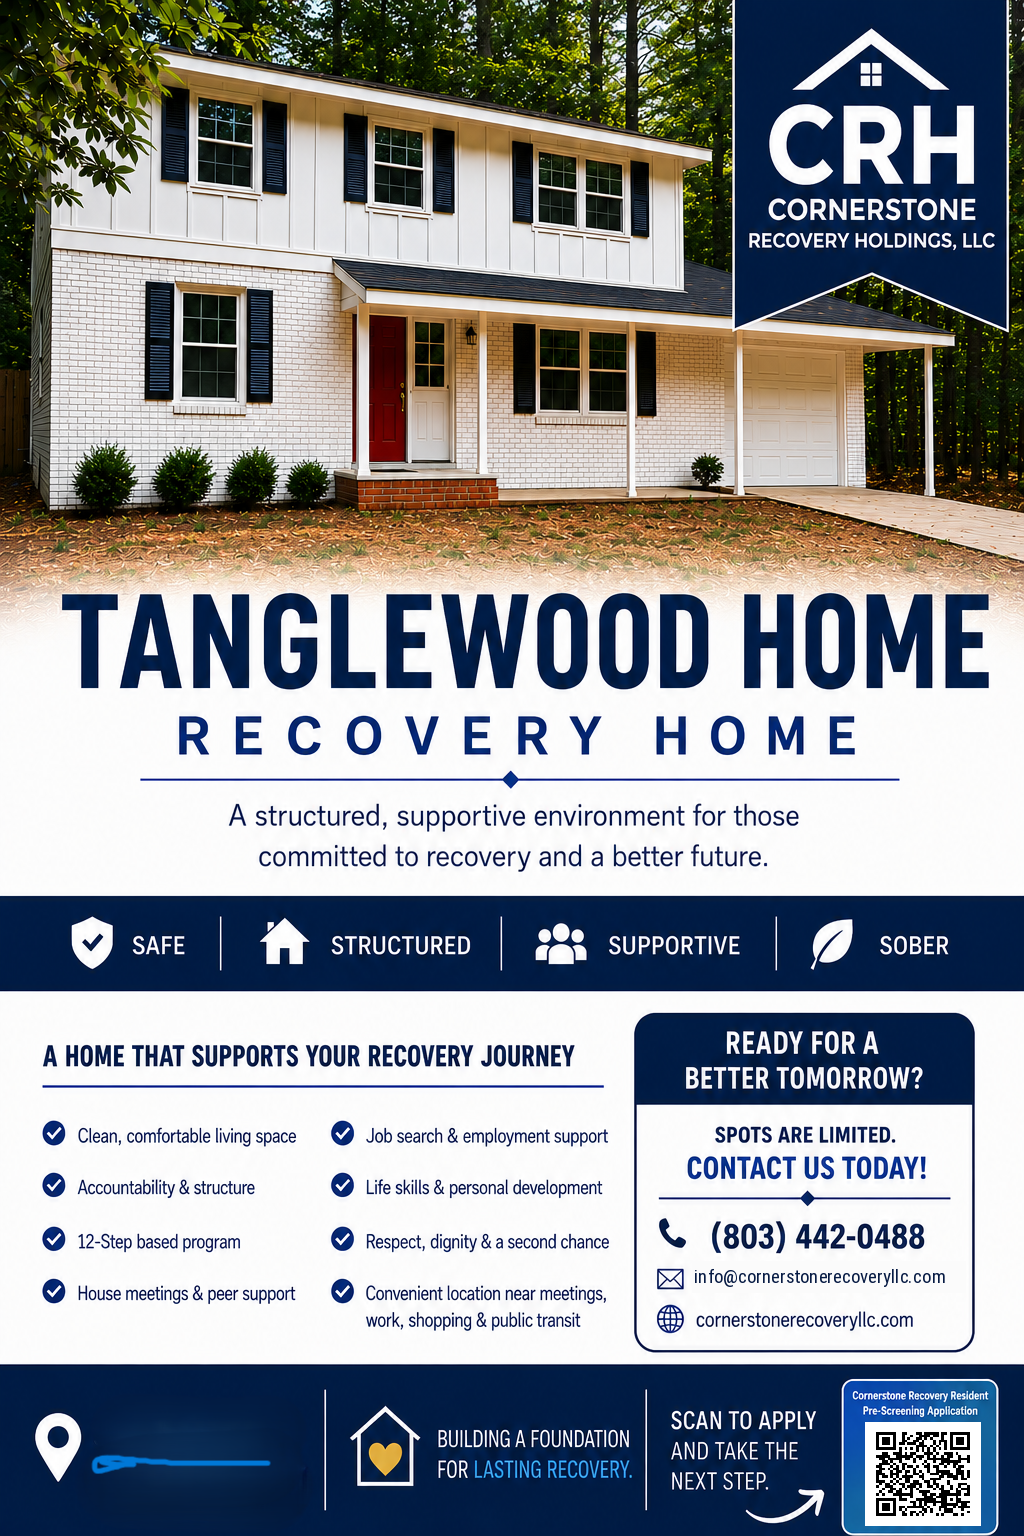
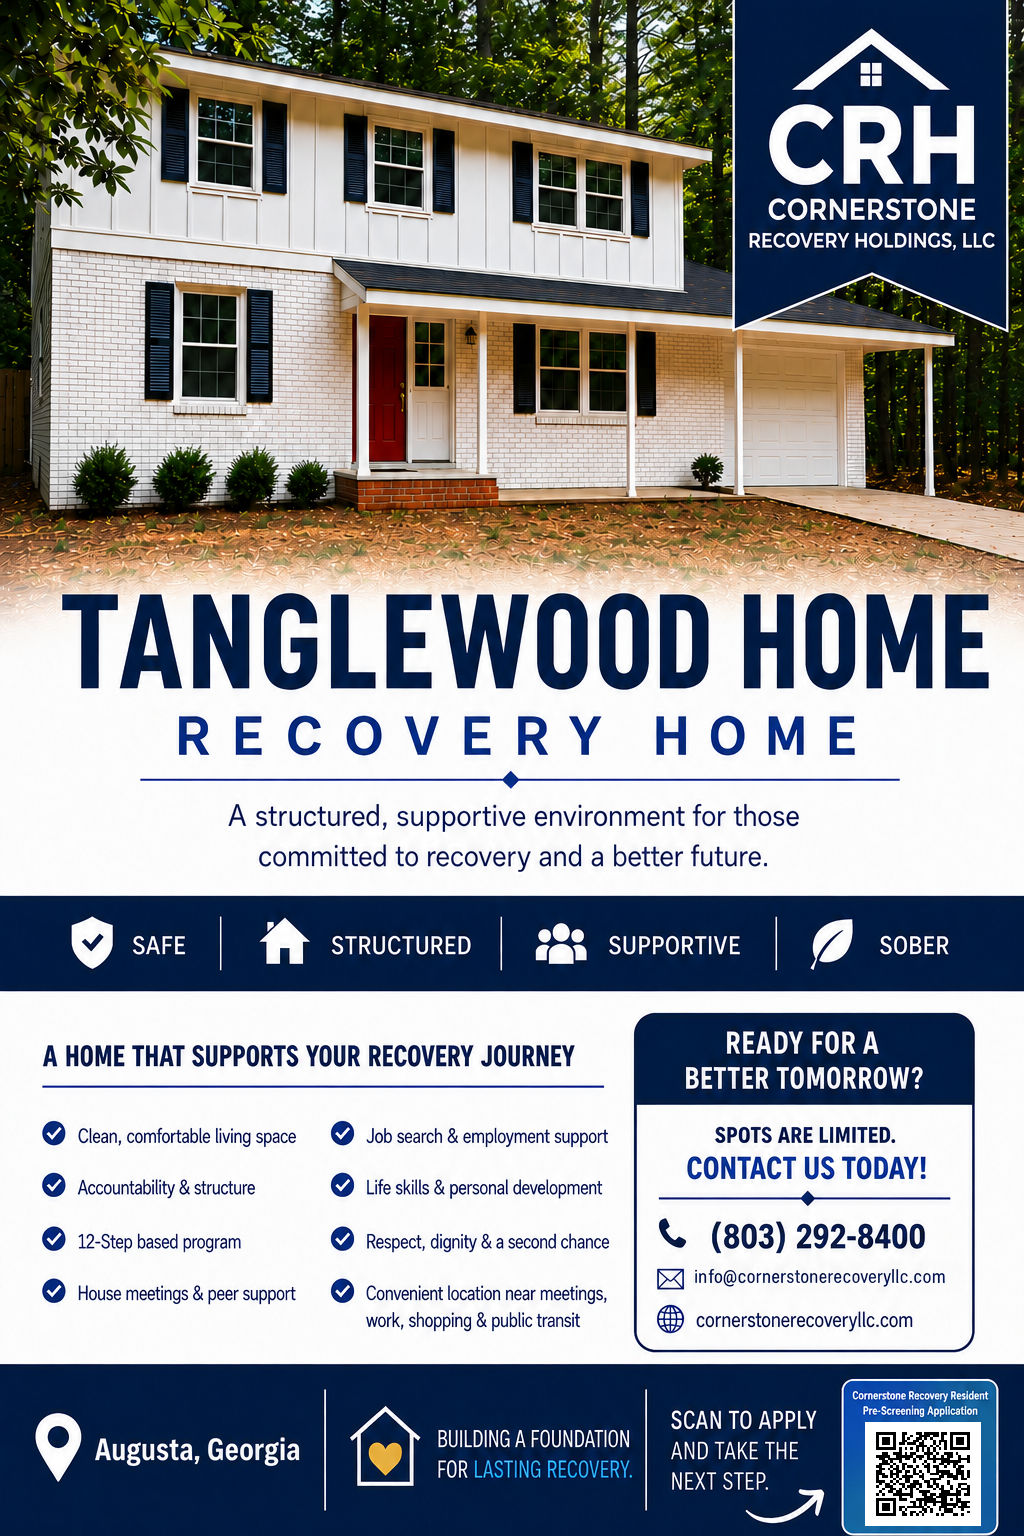
Update flyer phone and Augusta location

diff --git a/src/CRHWebsite.jsx b/src/CRHWebsite.jsx
@@ -157,13 +157,13 @@ export default function CRHWebsite() {
 
           <aside className="hero-panel flyer-panel" aria-label="Tanglewood Home flyer">
             <a
-              href="/tanglewood-home-flyer.png"
+              href="/tanglewood-home-flyer.png?v=20261103"
               target="_blank"
               rel="noopener noreferrer"
               aria-label="Open the Tanglewood Home flyer"
             >
               <img
-                src="/tanglewood-home-flyer.png"
+                src="/tanglewood-home-flyer.png?v=20261103"
                 alt="Tanglewood Home recovery housing flyer"
                 className="flyer-image"
               />
@@ -202,12 +202,12 @@ export default function CRHWebsite() {
         <div className="resident-layout">
           <a
             className="resident-flyer-link"
-            href="/tanglewood-home-flyer.png"
+            href="/tanglewood-home-flyer.png?v=20261103"
             target="_blank"
             rel="noopener noreferrer"
           >
             <img
-              src="/tanglewood-home-flyer.png"
+              src="/tanglewood-home-flyer.png?v=20261103"
               className="resident-flyer"
               alt="Tanglewood Home flyer with application QR code"
             />
@@ -243,7 +243,7 @@ export default function CRHWebsite() {
               </a>
               <a
                 className="btn btn-download"
-                href="/tanglewood-home-flyer.png"
+                href="/tanglewood-home-flyer.png?v=20261103"
                 download
               >
                 Download Flyer
